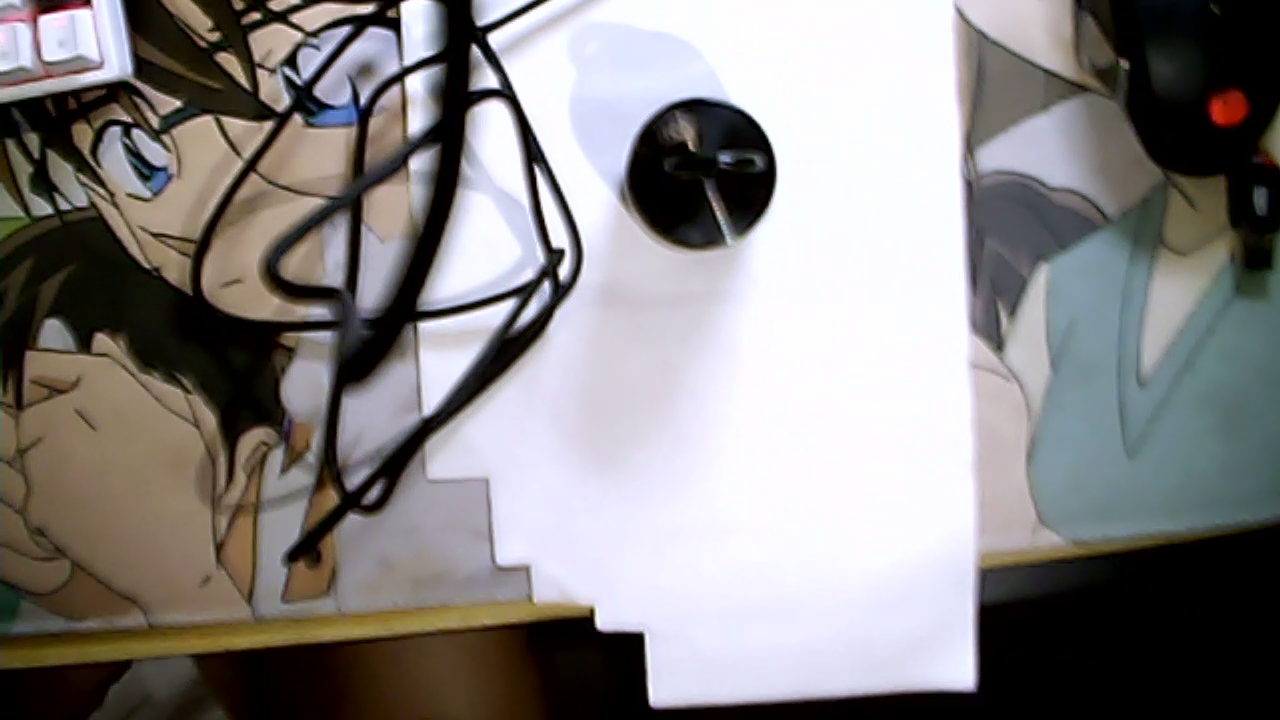
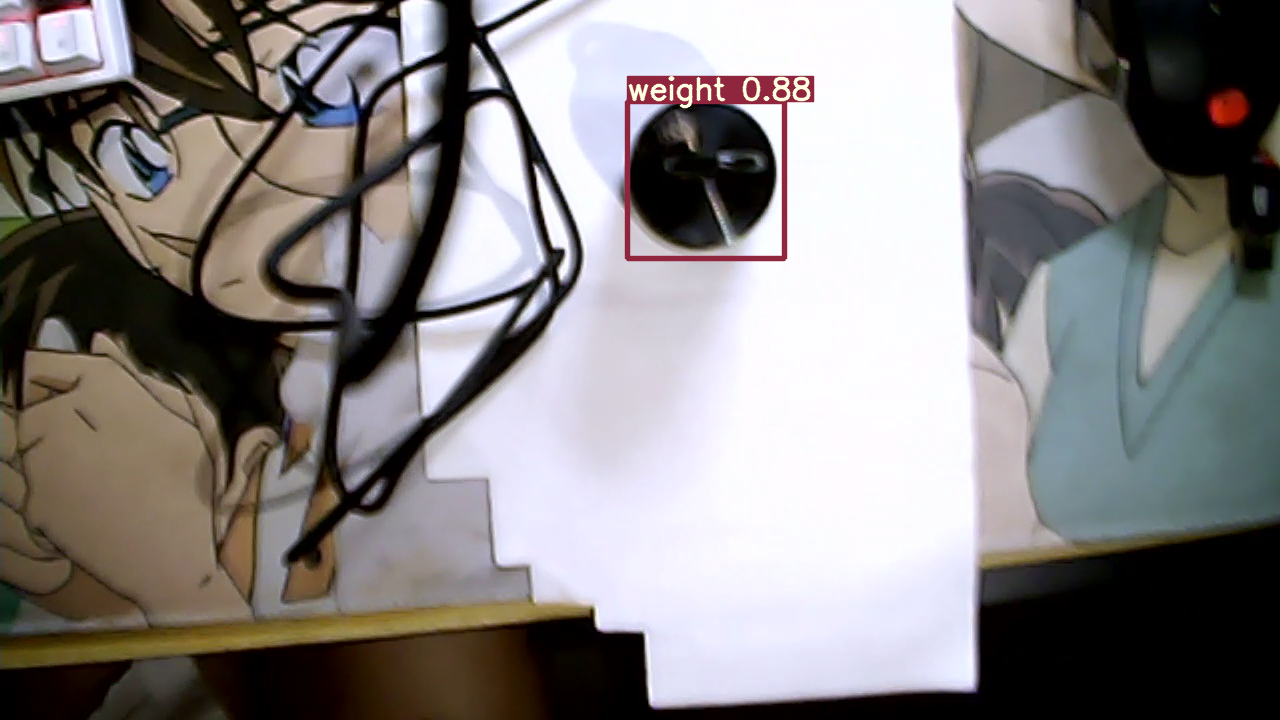
Initial commit

Changed region(s): [[0.4688, 0.0917, 0.6562, 0.3667]]

diff --git a/README.md b/README.md
@@ -1,3 +1,3 @@
 本项目为参加起重机大赛而制，部署在树莓派5上，在单类别简单物品(黑色圆柱砝码)上表现不错
 
-![](runs/etect/exp/294.png)
+![](294.png)
